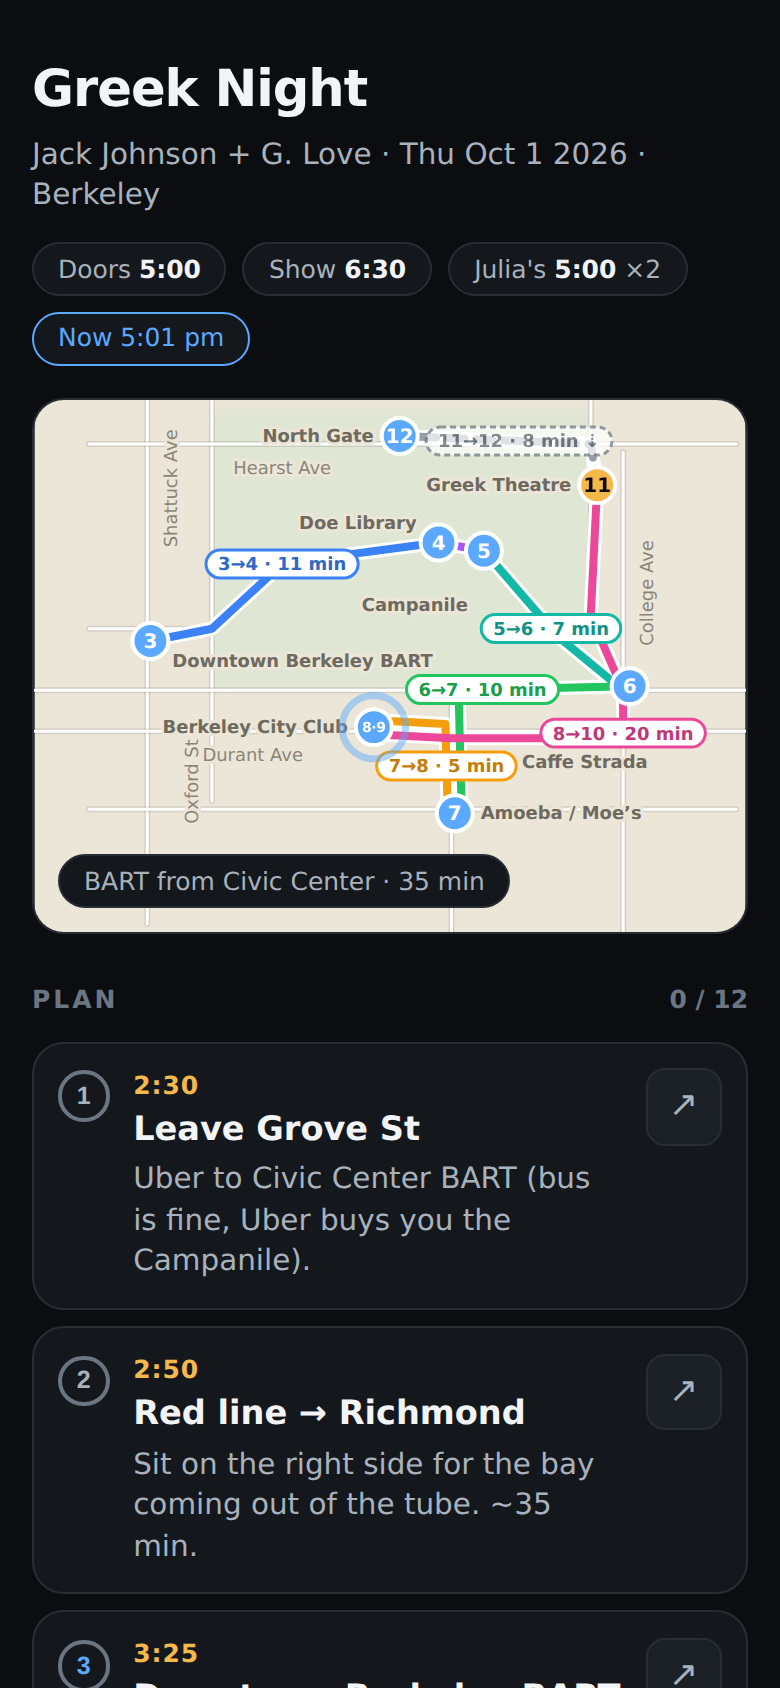
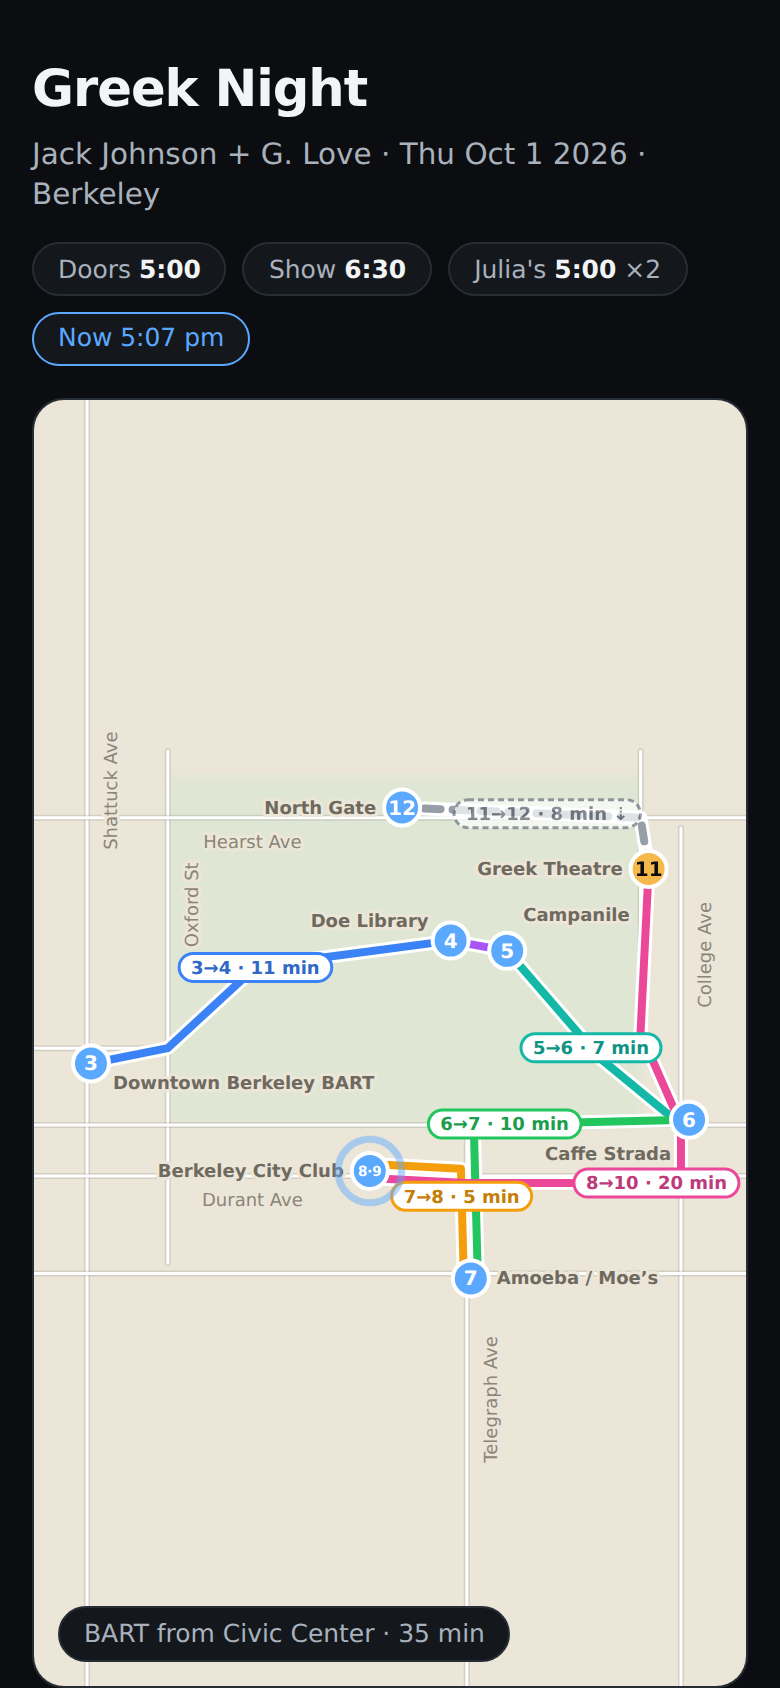
greek-night: full-screen map, live reorder, pinch zoom, always-on location, North Gate
Pinch zoom, always-on location, the 250px popup and North Gate landed in
d1ec303 and 631fdb6; this commit adds the full-screen map and the live
reorder.

At phone widths the map card fills the first screen under the header
(100dvh less the header, the top safe area and a gap; 4:3 as the
minimum), so the plan starts below the fold. The fit follows the card's
real aspect, the extra height shows more map north and south, and
Shattuck, Telegraph and College run on to the frame's edge. Walk-time
pills slide along their leg to stay inside the card.

The plan reorders itself through the evening: the current step first,
then what's still to come in time order, then an Earlier divider with
past and done steps in plan order, dimmed. A step is past once its next
step started more than 15 minutes ago (the last step, an hour after its
own time); current is the first started step that isn't. Rows that
move slide to their new place (FLIP, 250 ms). The map's pulse follows
the same current step. Rows are now addressed by step, not position.

Claude-Session: https://claude.ai/code/session_01SYEqCQ4izqiJdBAjLeUwFf

diff --git a/greek-night.html b/greek-night.html
@@ -32,7 +32,8 @@
   .list{display:flex;flex-direction:column;gap:var(--s2)}
   .item{display:grid;grid-template-columns:auto 1fr auto;gap:var(--s3);align-items:start;background:var(--card);border:1px solid var(--line);border-radius:var(--r);padding:var(--s3) var(--s3) var(--s3) var(--s3);position:relative;transition:opacity .2s}
   .item.now,.item.linked{border-color:var(--now);box-shadow:0 0 0 1px var(--now) inset}
-  .item.done{opacity:.42}
+  .item.done,.item.past{opacity:.42}
+  .earlier{font-size:var(--t4);font-weight:700;text-transform:uppercase;letter-spacing:.12em;color:var(--ink3);margin-top:var(--s3)}
   .item.done .title{text-decoration:line-through}
   .check{appearance:none;-webkit-appearance:none;width:1.6rem;height:1.6rem;border-radius:50%;border:2px solid var(--ink3);margin-top:.1rem;flex:none;display:grid;place-items:center;cursor:pointer}
   .check:checked{background:var(--ok);border-color:var(--ok)}
@@ -58,6 +59,12 @@
   button{flex:1;background:var(--card);border:1px solid var(--line);color:var(--ink2);border-radius:var(--r2);padding:var(--s3);font:inherit;font-size:var(--t3)}
   footer{margin-top:var(--s6);text-align:center;color:var(--ink3);font-size:var(--t4)}
   .mapcard{position:relative;width:100%;aspect-ratio:4/3;max-height:60vh;background:var(--card);border:1px solid var(--line);border-radius:var(--r);overflow:hidden;touch-action:none}
+  /* phone widths: header + map fill the first screen and the plan starts below the fold; 4:3 stays as the minimum */
+  @media (max-width:767px){
+    .mapcard{aspect-ratio:auto;max-height:none;min-height:calc((100vw - 2 * var(--s4)) * .75);
+      height:calc(100vh - var(--hdr, 0px) - env(safe-area-inset-top) - var(--s4));
+      height:calc(100dvh - var(--hdr, 0px) - env(safe-area-inset-top) - var(--s4))}
+  }
   .mapcard svg{position:absolute;inset:0;width:100%;height:100%;display:block;-webkit-user-select:none;user-select:none;-webkit-tap-highlight-color:transparent}
   .mapchip{position:absolute;bottom:var(--s3);left:var(--s3);z-index:3;pointer-events:none}
   .gn-land{fill:#ece6d8}
@@ -200,14 +207,14 @@
     return el;
   }
 
-  PLAN.forEach(function(p, i){ planEl.appendChild(row('p' + i, p.t, p.title, p.note, p.map)); });
+  var rowEls = PLAN.map(function(p, i){ return planEl.appendChild(row('p' + i, p.t, p.title, p.note, p.map)); });   /* by step; the list itself reorders */
   BRING.forEach(function(b, i){ bringEl.appendChild(row('b' + i, '', b, '', '')); });
 
   /* steps 4–8 can be skipped: a chip under the ↗ button; the row's right column stacks the two */
   function isSkipped(step){ return !!(state.skip && state.skip['p' + (step - 1)]); }
   function skipGain(i){ return (PLAN[i + 1].h * 60 + PLAN[i + 1].m) - (PLAN[i].h * 60 + PLAN[i].m); }
   [4, 5, 6, 7, 8].forEach(function(step){
-    var r = planEl.children[step - 1], a = r.querySelector('.map');
+    var r = rowEls[step - 1], a = r.querySelector('.map');
     var side = document.createElement('div'); side.className = 'side';
     r.replaceChild(side, a); side.appendChild(a);
     var b = document.createElement('button'); b.type = 'button'; b.className = 'chip skipbtn'; b.textContent = 'Skip';
@@ -221,37 +228,77 @@
     side.appendChild(b);
   });
 
-  function nowIndex(){
+  /* Each step's place in the evening (on Oct 1; any other day nothing is under way):
+     done = ticked or skipped; past = its next step started more than 15 min ago (the last step: an hour after its own time);
+     current = the first step that has started and is neither; everything else is still to come. */
+  function minsNow(){
     var d = new Date();
-    if (d.getMonth() !== 9 || d.getDate() !== 1) return -1;
-    var mins = d.getHours() * 60 + d.getMinutes();
-    var idx = -1;
-    PLAN.forEach(function(p, i){ if (mins >= p.h * 60 + p.m) idx = i; });
-    return idx;
+    return d.getMonth() === 9 && d.getDate() === 1 ? d.getHours() * 60 + d.getMinutes() : -1;
+  }
+  function planStates(){
+    var now = minsNow(), cur = -1;
+    var st = PLAN.map(function(p, i){
+      if (state['p' + i] || isSkipped(i + 1)) return 'done';
+      if (now < 0) return 'up';
+      var start = p.h * 60 + p.m, nx = PLAN[i + 1], end = nx ? nx.h * 60 + nx.m + 15 : start + 60;
+      if (now > end) return 'past';
+      if (now >= start && cur < 0) { cur = i; return 'cur'; }
+      return 'up';
+    });
+    return {st:st, cur:cur};
+  }
+  /* current first, then what's still to come in time order; under "Earlier", what's behind you in plan order.
+     A row that moves slides to its new place (FLIP, 250 ms) rather than jumping; the first paint just sets the order. */
+  var earlierEl = document.createElement('div'), firstOrder = true;
+  earlierEl.className = 'earlier'; earlierEl.textContent = 'Earlier';
+  function reorder(ps){
+    var top = [], back = [];
+    if (ps.cur >= 0) top.push(rowEls[ps.cur]);
+    rowEls.forEach(function(r, i){ if (ps.st[i] === 'up') top.push(r); });
+    rowEls.forEach(function(r, i){ if (ps.st[i] === 'past' || ps.st[i] === 'done') back.push(r); });
+    var seq = back.length ? top.concat([earlierEl], back) : top;
+    var have = Array.prototype.slice.call(planEl.children);
+    if (have.length === seq.length && have.every(function(e, i){ return e === seq[i]; })) return;
+    var was = have.map(function(e){ return e.getBoundingClientRect().top; });
+    seq.forEach(function(e){ planEl.appendChild(e); });
+    if (!back.length && earlierEl.parentNode) planEl.removeChild(earlierEl);
+    var animate = !firstOrder && !(window.matchMedia && matchMedia('(prefers-reduced-motion: reduce)').matches);
+    firstOrder = false;
+    if (!animate) return;
+    var moved = [];
+    have.forEach(function(e, k){
+      if (!e.parentNode) return;
+      var d = was[k] - e.getBoundingClientRect().top;
+      if (Math.abs(d) < 1) return;
+      e.style.transition = 'none'; e.style.transform = 'translateY(' + d + 'px)'; moved.push(e);
+    });
+    if (!moved.length) return;
+    void planEl.offsetHeight;   /* commit the old positions before playing to the new ones */
+    moved.forEach(function(e){ e.style.transition = 'transform .25s ease'; e.style.transform = ''; });
+    setTimeout(function(){ moved.forEach(function(e){ e.style.transition = ''; }); }, 300);
   }
 
   function paint(){
-    var done = 0, skipped = 0;
-    var ni = nowIndex();
-    var rows = planEl.children;
-    for (var i = 0; i < rows.length; i++) {
-      var r = rows[i];
+    var done = 0, skipped = 0, ps = planStates();
+    rowEls.forEach(function(r, i){
       var checked = !!state['p' + i], sk = isSkipped(i + 1);
       r.classList.toggle('done', checked);
       r.classList.toggle('skipped', sk);
-      r.classList.toggle('now', i === ni && !checked && !sk);
+      r.classList.toggle('past', ps.st[i] === 'past');
+      r.classList.toggle('now', i === ps.cur);
       var note = r.querySelector('.note'), btn = r.querySelector('.skipbtn');
       if (note) note.textContent = sk ? 'Skipped · +' + skipGain(i) + ' min' : PLAN[i].note;
       if (btn) btn.textContent = sk ? 'Restore' : 'Skip';
       if (sk) skipped++; else if (checked) done++;
-    }
+    });
+    reorder(ps);
     var brows = bringEl.children;
     for (var j = 0; j < brows.length; j++) brows[j].classList.toggle('done', !!state['b' + j]);
     progEl.textContent = done + ' / ' + (PLAN.length - skipped);
     var d = new Date();
     var hh = d.getHours() % 12 || 12, mm = ('0' + d.getMinutes()).slice(-2);
     clockTimeEl.textContent = 'Now ' + hh + ':' + mm + (d.getHours() < 12 ? ' am' : ' pm');
-    paintMap(ni);
+    paintMap(ps.cur);
   }
 
   /* ---------- map hero: offline SVG, projected from the data ---------- */
@@ -298,12 +345,12 @@
   function liveSteps(s){ return s.steps.filter(function(k){ return !isSkipped(k); }); }
   function livePlaces(){ return PLACES.filter(function(s){ return liveSteps(s).length > 0; }); }
   var BACK = [[37.8737, -122.2543], [37.8747, -122.2545], [37.8749, -122.2604]];   /* Greek → Gayley & Hearst → North Gate */
-  /* [name, N–S?, fixed coord, from, to (null = full fitted width), labelled] */
+  /* [name, N–S?, fixed coord, from, to, labelled]; a null end runs to the frame's edge (south / west for from, north / east for to) */
   var STREETS = [
-    ['Shattuck Ave', true, -122.2682, 37.863, 37.878, true],
+    ['Shattuck Ave', true, -122.2682, null, null, true],
     ['Oxford St', true, -122.2662, 37.866, 37.876, true],
-    ['Telegraph Ave', true, -122.2588, 37.860, 37.8687, true],
-    ['College Ave', true, -122.2535, 37.860, 37.8745, true],
+    ['Telegraph Ave', true, -122.2588, null, 37.8687, true],
+    ['College Ave', true, -122.2535, null, 37.8745, true],
     ['Durant Ave', false, 37.8677, null, null, true],
     ['Bancroft Way', false, 37.8687, null, null, false],
     ['Haste St', false, 37.8658, -122.270, -122.250, false],
@@ -352,7 +399,7 @@
   var chipEl = cardEl.querySelector('.mapchip');
   var pinEls = [], linkedRows = [];
   /* plan rows with a pin take the pin's colour for their step number */
-  PLACES.forEach(function(s){ s.steps.forEach(function(k){ planEl.children[k - 1].querySelector('.check').classList.add(s.greek ? 'key-acc' : 'key-now'); }); });
+  PLACES.forEach(function(s){ s.steps.forEach(function(k){ rowEls[k - 1].querySelector('.check').classList.add(s.greek ? 'key-acc' : 'key-now'); }); });
 
   function S(tag, attrs, parent){
     var e = document.createElementNS(NS, tag);
@@ -542,9 +589,8 @@
     var gs = S('g', {}, svg);
     FIT.streets = STREETS.map(function(st){
       var a, b;
-      if (st[1]) { a = P(st[3], st[2]); b = P(st[4], st[2]); }
-      else if (st[3] === null) { var y = P(st[2], 0)[1]; a = [0, y]; b = [w, y]; }
-      else { a = P(st[2], st[3]); b = P(st[2], st[4]); }
+      if (st[1]) { var x = P(0, st[2])[0]; a = st[3] === null ? [x, h] : P(st[3], st[2]); b = st[4] === null ? [x, 0] : P(st[4], st[2]); }
+      else { var y = P(st[2], 0)[1]; a = st[3] === null ? [0, y] : P(st[2], st[3]); b = st[4] === null ? [w, y] : P(st[2], st[4]); }
       var ln = {x1:f(a[0]), y1:f(a[1]), x2:f(b[0]), y2:f(b[1])};
       ln['class'] = 'gn-st-case'; S('line', ln, gs);
       ln['class'] = 'gn-st'; S('line', ln, gs);
@@ -621,8 +667,10 @@
         var a = pts[j - 1], b = pts[j], t = (d - cum[j - 1]) / ((cum[j] - cum[j - 1]) || 1);
         return [a[0] + (b[0] - a[0]) * t, a[1] + (b[1] - a[1]) * t];
       }
-      function crowding(c){   /* the pin or earlier pill this spot is too close to, if any */
+      function crowding(c){   /* the pin, earlier pill or card edge this spot is too close to, if any */
         var r = {x:c[0] - pw / 2, y:c[1] - ph / 2, w:pw, h:ph};
+        if (r.x < 3 || r.y < 3 || r.x + r.w > w - 3 || r.y + r.h > h - 3)
+          return [r.x < 3 ? -1e3 : r.x + r.w > w - 3 ? w + 1e3 : c[0], r.y < 3 ? -1e3 : r.y + r.h > h - 3 ? h + 1e3 : c[1]];
         for (var i = 0; i < pinPts.length; i++) {
           var q = pinPts[i];
           if (Math.hypot(q[0] - c[0], q[1] - c[1]) < 14) return q;
@@ -733,7 +781,7 @@
       n.textContent = steps.join('·');
       return g;
     });
-    paintMap(nowIndex());
+    paintMap(planStates().cur);
     drawMe();
   }
 
@@ -759,7 +807,7 @@
     popEl.innerHTML = popPill(PLAN[steps[0] - 1].map, esc(s.n), lines);
     popEl.hidden = false;
     linkedRows.forEach(function(r){ r.classList.remove('linked'); });
-    linkedRows = steps.map(function(k){ return planEl.children[k - 1]; });
+    linkedRows = steps.map(function(k){ return rowEls[k - 1]; });
     linkedRows.forEach(function(r){ r.classList.add('linked'); });
     var c = pinEls[i].querySelector('.pin-c').getBoundingClientRect(), r = cardEl.getBoundingClientRect();
     var cx = c.left + c.width / 2 - r.left, top = c.top - r.top, bot = c.bottom - r.top;
@@ -904,14 +952,20 @@
     clearTimeout(wheelT); wheelT = setTimeout(layout, 150);
   }, {passive:false});
 
-  var rsT = null, lastW = 0;
-  window.addEventListener('resize', function(){
+  /* the map card is sized from the header's height at phone widths; any change of the card's size refits the map
+     and re-places the chip-aware labels */
+  var headerEl = document.querySelector('header'), rsT = null, lastW = '';
+  function sizeCard(){ document.documentElement.style.setProperty('--hdr', headerEl.offsetHeight + 'px'); }
+  function resized(){
     clearTimeout(rsT);
     rsT = setTimeout(function(){
       if (svg.clientWidth + 'x' + svg.clientHeight === lastW) return;
       lastW = svg.clientWidth + 'x' + svg.clientHeight; popClose(); buildMap(); paint();
     }, 150);
-  });
+  }
+  window.addEventListener('resize', function(){ sizeCard(); resized(); });
+  if (window.ResizeObserver) { new ResizeObserver(sizeCard).observe(headerEl); new ResizeObserver(resized).observe(svg); }
+  sizeCard();
   buildMap(); lastW = svg.clientWidth + 'x' + svg.clientHeight;
   startWatch();
 
